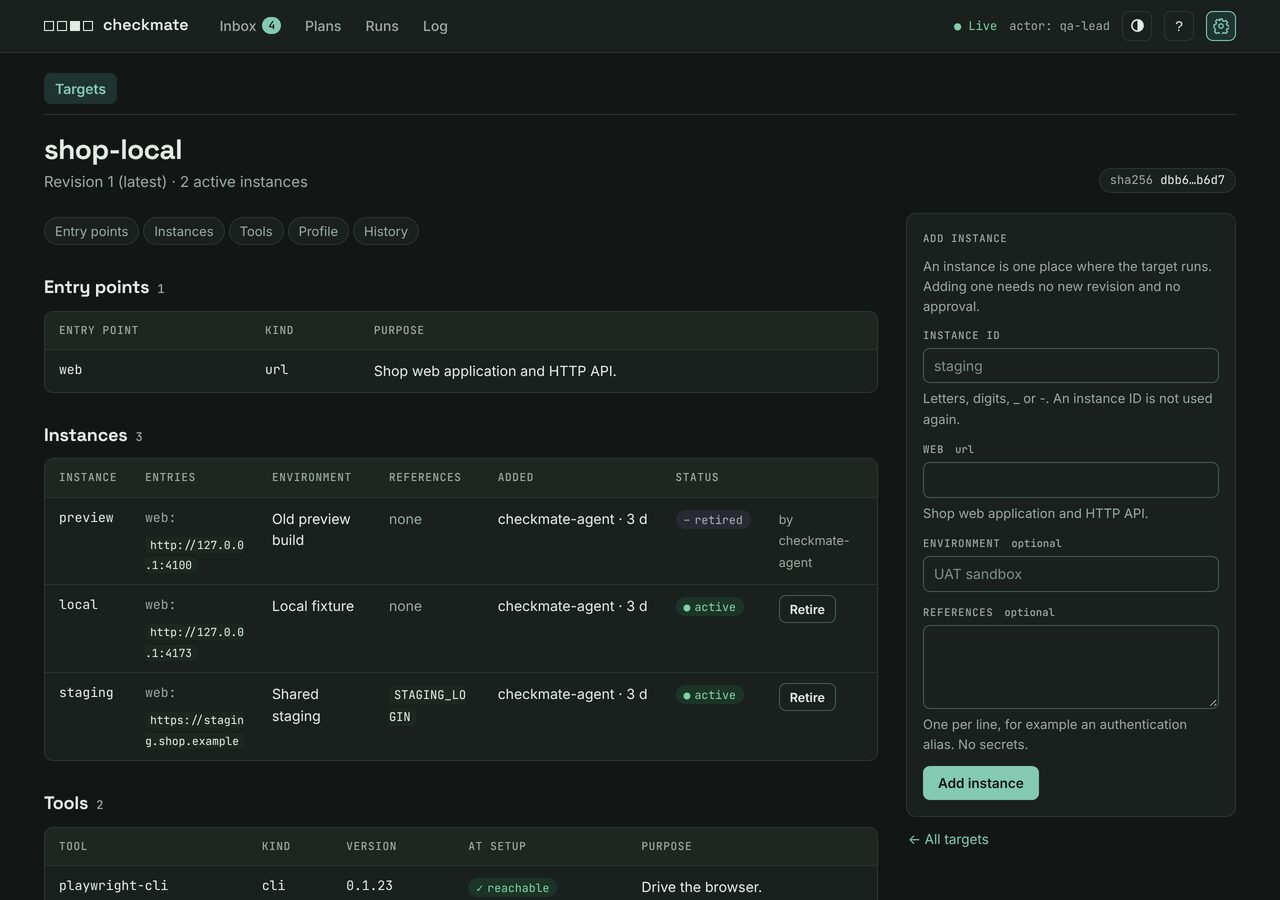
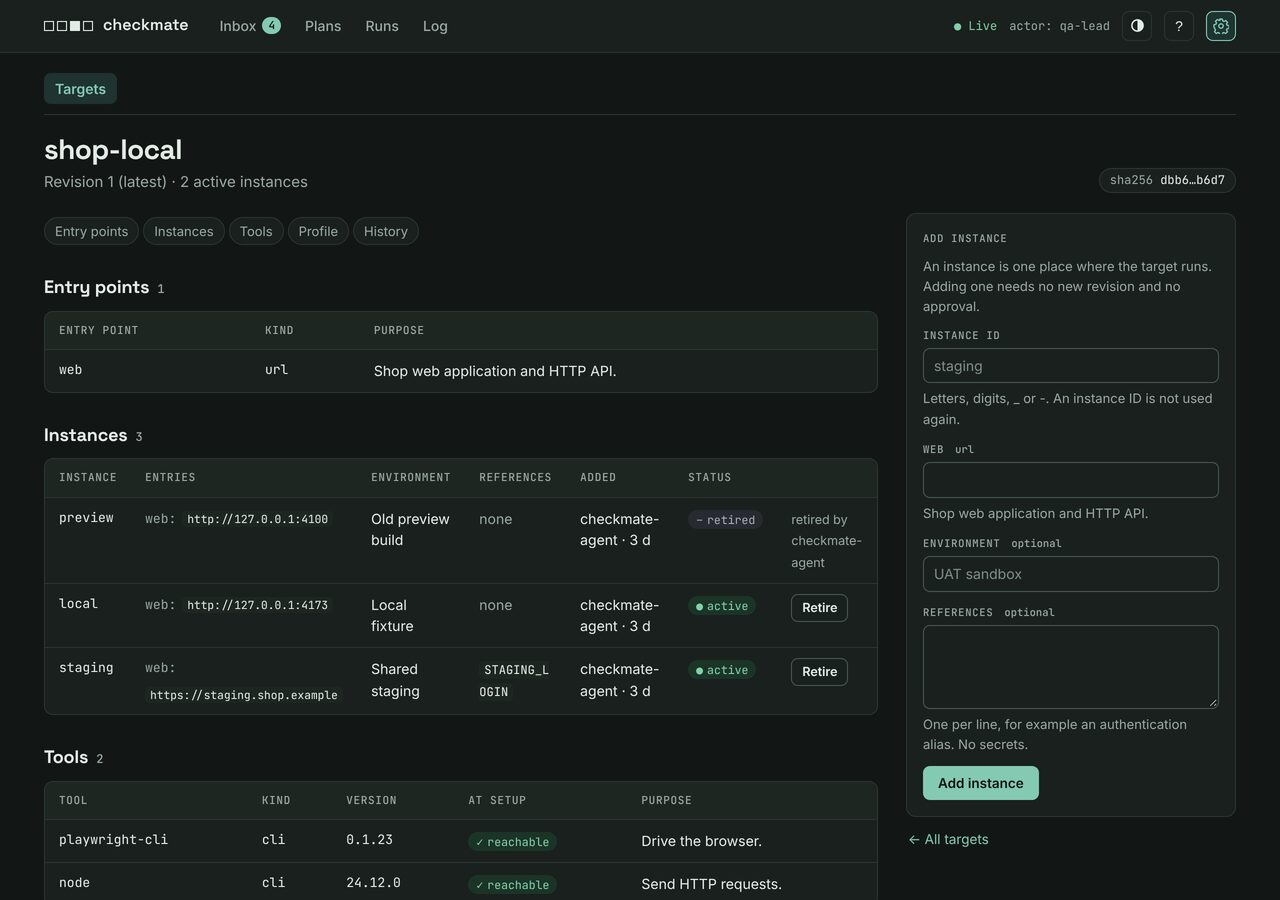
Fix review findings for target instances
Deterministic live setup, safe command entries in the execute skill,
a consistent factory example, trimmed --entry values, clearer retired
and unknown instance errors, accessible Retire controls, unbroken
command values in the UI, a matrix next hint, and tests for unknown
three-word commands and escaped instance values.

Claude-Session: https://claude.ai/code/session_01HgM7N6e8wyFWRWjtad7HpP

diff --git a/plugin/dist/checkmate.js b/plugin/dist/checkmate.js
@@ -6674,7 +6674,7 @@ function targetRequestCheck(input) {
   requireIdentifier(input.targetId, "target ID");
   requireCondition(
     Array.isArray(input.entryPoints) && input.entryPoints.length > 0,
-    "Missing entry points. Give one or more --entry-point <name>:<url|command|value>[:<purpose>]."
+    "Missing entry points. Give one or more --entry-point <name>:<url|command|value>:<purpose>."
   );
   const entryPoints = input.entryPoints.map(entryPointCheck);
   requireCondition(
@@ -6901,7 +6901,11 @@ function addInstance(store, actor, input) {
     );
     if (existing) {
       requireCondition(
-        existing.body === canonical(instance) && !retirement(store, input.targetId, instanceId),
+        !retirement(store, input.targetId, instanceId),
+        `Instance ${subject} is retired. Use a new instance ID.`
+      );
+      requireCondition(
+        existing.body === canonical(instance),
         `Instance ${subject} exists. An instance does not change. Use a new instance ID.`
       );
       return { reply: completed(subject, { ...instance, instanceId, recorded: false }), subjects: [] };
@@ -8829,7 +8833,7 @@ function planStatus(store, planId) {
         [
           openRuns.length === 1 ? `${started.runId} is started on build ${started.build} on instance ${started.instanceId}` : `${openRuns.length} runs are started`
         ],
-        `checkmate delegate execute ${started.runId}`
+        openRuns.length === 1 ? `checkmate delegate execute ${started.runId}` : "checkmate delegate execute <runId>, for each started run"
       );
     if (pendingDecisions2.length)
       return loop(
@@ -12075,7 +12079,14 @@ function entryList(instance) {
 		${Object.entries(instance.entries).map(
     ([name, value2]) => html2`<div>
 					<dt class="mono">${name}</dt>
-					<dd><code>${value2}</code></dd>
+					<dd>
+						<code
+							>${join4(
+      value2.split(" ").map((word) => html2`<span class="word">${word}</span>`),
+      " "
+    )}</code
+						>
+					</dd>
 				</div>`
   )}
 	</dl>`;
@@ -12088,10 +12099,10 @@ function actorInput(context, id2) {
 	</div>`;
 }
 function retireControl(context, targetId, instance, retire) {
-  if (instance.retired) return html2`<span class="muted small">by ${instance.retired.actor}</span>`;
+  if (instance.retired) return html2`<span class="muted small">retired by ${instance.retired.actor}</span>`;
   const failed = retire?.instanceId === instance.instanceId ? retire.error : null;
   return html2`<details class="retire" ${failed ? html2`open` : ""} data-open-key="retire:${instance.instanceId}">
-		<summary class="btn small">Retire</summary>
+		<summary class="btn small" aria-label="Retire ${instance.instanceId}">Retire</summary>
 		<form
 			method="post"
 			action="/settings/targets/${targetId}/instances/${instance.instanceId}/retire"
@@ -12128,7 +12139,7 @@ function instancesTable(context, targetId, instances, retire) {
 							<td>${entryList(instance)}</td>
 							<td>${instance.environment ?? none2()}</td>
 							<td>${words3(instance.references)}</td>
-							<td class="nowrap">${instance.addedBy} · ${time(instance.addedAt)}</td>
+							<td>${instance.addedBy} · ${time(instance.addedAt)}</td>
 							<td>${instance.retired ? pill("retired") : pill("active")}</td>
 							<td>${retireControl(context, targetId, instance, retire)}</td>
 						</tr>`
@@ -12234,6 +12245,7 @@ function targetPage(store, context, targetId, revision, form = null, retire = nu
 				</section>
 				<section aria-labelledby="instances" data-region="instances">
 					<h2 id="instances">Instances <span class="n">${instances.length}</span></h2>
+					${retire && !instances.some((instance) => instance.instanceId === retire.instanceId && !instance.retired) ? html2`<p class="form-error" role="alert">${retire.error}</p>` : ""}
 					${instancesTable(context, targetId, instances, retire)}
 				</section>
 				${shape}
@@ -12979,7 +12991,7 @@ function instanceInput(args, stdin) {
     requireCondition(at > 0, `Invalid --entry: ${entry}. Use <entryPoint>=<value>.`);
     const name = entry.slice(0, at);
     requireCondition(!(name in values), `Entry point ${name} is given twice`);
-    values[name] = entry.slice(at + 1);
+    values[name] = entry.slice(at + 1).trim();
   }
   return {
     entries: values,
@@ -13861,7 +13873,7 @@ function commandName(argv) {
   }
   for (let count = words4.length; count > 0; count--)
     if (commands[words4.slice(0, count).join(" ")]) return words4.slice(0, count).join(" ");
-  throw new Error(`Unknown command: ${words4.slice(0, 2).join(" ") || "(none)"}. Run checkmate --help.`);
+  throw new Error(`Unknown command: ${words4.join(" ") || "(none)"}. Run checkmate --help.`);
 }
 function parse(name, tokens) {
   const command = commands[name];

diff --git a/test/ui.test.ts b/test/ui.test.ts
@@ -15,6 +15,7 @@ import {
 	closeStore,
 	openPlan,
 	openStore,
+	addInstance,
 	instanceList,
 	operationLog,
 	planCandidate,
@@ -868,4 +869,46 @@ test('the run page shows XML and CSV evidence inline as text', async (t) => {
 	const page = (await call(ui, '/runs/run-8')).body
 	assert.match(page, /<pre tabindex="0">&lt;feed&gt;&lt;item&gt;Lamp&lt;\/item&gt;&lt;\/feed&gt;<\/pre>/)
 	assert.match(page, /<pre tabindex="0">sku,total\nLAMP-01,400\n<\/pre>/)
+})
+
+test('instance values are escaped in the table and the form; a javascript: URL entry is text only', async (t) => {
+	const { ui, workspace } = await start(t)
+	const hostile = 'javascript:alert("x")//<script>alert(1)</script>'
+	read(workspace, (store) =>
+		addInstance(store, agent, {
+			targetId: 'shop-local',
+			instanceId: 'hostile',
+			instance: { entries: { web: hostile }, environment: '<script>alert(2)</script>"' },
+		})
+	)
+	const page = (await call(ui, '/settings/targets/shop-local')).body
+	assert(!page.includes('<script>alert'), 'raw script in the page')
+	assert.match(
+		page,
+		/<span class="word">javascript:alert\(&quot;x&quot;\)\/\/&lt;script&gt;alert\(1\)&lt;\/script&gt;<\/span>/
+	)
+	assert.match(page, /&lt;script&gt;alert\(2\)&lt;\/script&gt;&quot;/)
+	assert.doesNotMatch(page, /href="javascript:/i)
+	const csrf = field(page, 'csrf')
+	const refused = await call(ui, '/settings/targets/shop-local/instances', {
+		form: { csrf, instanceId: 'x"><script>', 'entry.web': '"><script>alert(3)</script>' },
+		headers: actorCookie,
+	})
+	assert.equal(refused.status, 422)
+	assert(!refused.body.includes('<script>alert(3)'), 'raw script in the form')
+	assert.match(refused.body, /value="&quot;&gt;&lt;script&gt;alert\(3\)&lt;\/script&gt;"/)
+	assert.match(refused.body, /value="x&quot;&gt;&lt;script&gt;"/)
+})
+
+test('a retire of an unknown instance shows a visible error; each Retire control names its instance', async (t) => {
+	const { ui } = await start(t)
+	const page = (await call(ui, '/settings/targets/shop-local')).body
+	assert.match(page, /aria-label="Retire staging"/)
+	assert.match(page, /retired by checkmate-agent/)
+	const unknown = await call(ui, '/settings/targets/shop-local/instances/nope/retire', {
+		form: { csrf: field(page, 'csrf'), confirmed: '1' },
+		headers: actorCookie,
+	})
+	assert.equal(unknown.status, 422)
+	assert.match(unknown.body, /<p class="form-error" role="alert">Unknown instance: shop-local\/nope\./)
 })

diff --git a/plugin/src/ui/settings.ts b/plugin/src/ui/settings.ts
@@ -212,7 +212,14 @@ function entryList(instance: InstanceRecord) {
 			([name, value]) =>
 				html`<div>
 					<dt class="mono">${name}</dt>
-					<dd><code>${value}</code></dd>
+					<dd>
+						<code
+							>${join(
+								value.split(' ').map((word) => html`<span class="word">${word}</span>`),
+								' '
+							)}</code
+						>
+					</dd>
 				</div>`
 		)}
 	</dl>`
@@ -227,10 +234,10 @@ function actorInput(context: Context, id: string) {
 }
 
 function retireControl(context: Context, targetId: string, instance: InstanceRecord, retire: RetireState) {
-	if (instance.retired) return html`<span class="muted small">by ${instance.retired.actor}</span>`
+	if (instance.retired) return html`<span class="muted small">retired by ${instance.retired.actor}</span>`
 	const failed = retire?.instanceId === instance.instanceId ? retire.error : null
 	return html`<details class="retire" ${failed ? html`open` : ''} data-open-key="retire:${instance.instanceId}">
-		<summary class="btn small">Retire</summary>
+		<summary class="btn small" aria-label="Retire ${instance.instanceId}">Retire</summary>
 		<form
 			method="post"
 			action="/settings/targets/${targetId}/instances/${instance.instanceId}/retire"
@@ -269,7 +276,7 @@ function instancesTable(context: Context, targetId: string, instances: InstanceR
 							<td>${entryList(instance)}</td>
 							<td>${instance.environment ?? none()}</td>
 							<td>${words(instance.references)}</td>
-							<td class="nowrap">${instance.addedBy} · ${time(instance.addedAt)}</td>
+							<td>${instance.addedBy} · ${time(instance.addedAt)}</td>
 							<td>${instance.retired ? pill('retired') : pill('active')}</td>
 							<td>${retireControl(context, targetId, instance, retire)}</td>
 						</tr>`
@@ -389,6 +396,12 @@ export function targetPage(
 				</section>
 				<section aria-labelledby="instances" data-region="instances">
 					<h2 id="instances">Instances <span class="n">${instances.length}</span></h2>
+					${
+						retire &&
+						!instances.some((instance) => instance.instanceId === retire.instanceId && !instance.retired)
+							? html`<p class="form-error" role="alert">${retire.error}</p>`
+							: ''
+					}
 					${instancesTable(context, targetId, instances, retire)}
 				</section>
 				${shape}

diff --git a/test/targets.test.ts b/test/targets.test.ts
@@ -274,7 +274,7 @@ test('instances are added and retired without a new revision; retired IDs are no
 	)
 	assert.throws(
 		() => addInstance(opened, actor, { targetId: 'crm', instanceId: 'uat', instance: sandbox }),
-		/Instance crm\/uat exists/
+		/Instance crm\/uat is retired\. Use a new instance ID/
 	)
 	addInstance(opened, actor, { targetId: 'crm', instanceId: 'uat-2', instance: sandbox })
 	const list = instanceList(opened, 'crm')
@@ -357,8 +357,18 @@ test('target list, show, and instance commands print entry points, authenticatio
 		'piped\tretired\t-\tweb=http://127.0.0.1:5000',
 	])
 	assert.match(cli(workspace, ['target', 'show', 'checkout-local', '--instance', 'nope']).output, /Unknown instance/)
+	const trimmed = json(workspace, [
+		'target',
+		'instance',
+		'add',
+		'checkout-local',
+		'trimmed',
+		'--entry',
+		'web=  http://127.0.0.1:6000 ',
+	])
+	assert.deepEqual(trimmed.body.entries, { web: 'http://127.0.0.1:6000' })
 	assert.match(
 		cli(workspace, ['target', 'instance', 'drop', 'checkout-local']).output,
-		/Unknown command: target instance/
+		/Unknown command: target instance drop\. Run/
 	)
 })

diff --git a/test/live.ts b/test/live.ts
@@ -101,16 +101,25 @@ try {
 		'--operations',
 		'read_catalog,create_fixture_order,apply_fixture_discount',
 	])
+	checkmate(workspace, [
+		'target',
+		'instance',
+		'add',
+		'checkout-local',
+		'local',
+		'--entry',
+		`web=${app.baseUrl}`,
+		'--environment',
+		'local fixture',
+	])
+	const instancesBefore = checkmate(workspace, ['target', 'instance', 'list', 'checkout-local']).instances
 	assert.equal((await stage('setup', 'setup', 'checkout-local')).status, 'completed')
 	const target = checkmate(workspace, ['target', 'show', 'checkout-local'])
 	assert.equal(target.profile.readyForLiveExecution, true)
 	assert.deepEqual(
-		target.instances.map((instance: { instanceId: string; entries: unknown }) => [
-			instance.instanceId,
-			instance.entries,
-		]),
-		[['local', { web: app.baseUrl }]],
-		'Setup did not add the first instance'
+		checkmate(workspace, ['target', 'instance', 'list', 'checkout-local']).instances,
+		instancesBefore,
+		'Setup changed the instances of the target'
 	)
 
 	checkmate(workspace, ['plan', 'open', 'checkout', '--target', `checkout-local@${target.revision}`], request)

diff --git a/plugin/src/targets.ts b/plugin/src/targets.ts
@@ -75,7 +75,7 @@ function targetRequestCheck(input: Omit<TargetRequest, 'tools'> & { tools?: Requ
 	requireIdentifier(input.targetId, 'target ID')
 	requireCondition(
 		Array.isArray(input.entryPoints) && input.entryPoints.length > 0,
-		'Missing entry points. Give one or more --entry-point <name>:<url|command|value>[:<purpose>].'
+		'Missing entry points. Give one or more --entry-point <name>:<url|command|value>:<purpose>.'
 	)
 	const entryPoints = input.entryPoints.map(entryPointCheck)
 	requireCondition(
@@ -328,7 +328,11 @@ export function addInstance(
 		)
 		if (existing) {
 			requireCondition(
-				existing.body === canonical(instance) && !retirement(store, input.targetId, instanceId),
+				!retirement(store, input.targetId, instanceId),
+				`Instance ${subject} is retired. Use a new instance ID.`
+			)
+			requireCondition(
+				existing.body === canonical(instance),
 				`Instance ${subject} exists. An instance does not change. Use a new instance ID.`
 			)
 			return { reply: completed(subject, { ...instance, instanceId, recorded: false }), subjects: [] }

diff --git a/plugin/src/cli.ts b/plugin/src/cli.ts
@@ -145,7 +145,7 @@ function instanceInput(args: Args, stdin: () => unknown) {
 		requireCondition(at > 0, `Invalid --entry: ${entry}. Use <entryPoint>=<value>.`)
 		const name = entry.slice(0, at)
 		requireCondition(!(name in values), `Entry point ${name} is given twice`)
-		values[name] = entry.slice(at + 1)
+		values[name] = entry.slice(at + 1).trim()
 	}
 	return {
 		entries: values,
@@ -1106,7 +1106,7 @@ function commandName(argv: string[]) {
 	}
 	for (let count = words.length; count > 0; count--)
 		if (commands[words.slice(0, count).join(' ')]) return words.slice(0, count).join(' ')
-	throw new Error(`Unknown command: ${words.slice(0, 2).join(' ') || '(none)'}. Run checkmate --help.`)
+	throw new Error(`Unknown command: ${words.join(' ') || '(none)'}. Run checkmate --help.`)
 }
 
 function parse(name: string, tokens: string[]) {

diff --git a/test/cli.test.ts b/test/cli.test.ts
@@ -199,6 +199,8 @@ test('--actor names the writer; parse errors are invalid requests', (t) => {
 	assert.equal(json(workspace, ['plan', 'show', 'checkout']).body.pendingDecisions[0].actor, 'reviewer')
 	const cases: Array<[string[], string]> = [
 		[['deploy'], 'Unknown command: deploy. Run checkmate --help.'],
+		[['target', 'instance', 'drop', 'x', 'y'], 'Unknown command: target instance drop. Run checkmate --help.'],
+		[['target', 'instance', '--json'], 'Unknown command: target instance. Run checkmate --help.'],
 		[
 			['plan', 'show', 'checkout', '--verbose'],
 			'Unknown option --verbose for plan show. Usage: checkmate plan show <reference> [--tests <a,b>] [--fields <a,b>] [--gaps <value>]',

diff --git a/test/live-support.ts b/test/live-support.ts
@@ -41,7 +41,7 @@ export function liveWorkspace(baseUrl: string) {
 			'# Fixture workspace',
 			'',
 			`The checkout fixture runs at ${baseUrl}. The factory owns the server. Do not change its code.`,
-			'The first instance of target `checkout-local` is `local`, with this URL as its `web` entry.',
+			'Target `checkout-local` has the active instance `local`, with this URL as its `web` entry.',
 			'The browser config is `.playwright/cli.config.json`. Use `open --idle-timeout=30000`.',
 			'The page `/` has one 400 PLN item. Its checkout button creates an order and shows the total.',
 			'The page has no promotion or loyalty control. Do not test the promotion or loyalty in the browser.',

diff --git a/test/views.test.ts b/test/views.test.ts
@@ -377,6 +377,7 @@ test('plan status lists every open run of a matrix with its instance', (t) => {
 		instances.map((instanceId, i) => [`run-${i + 1}`, instanceId])
 	)
 	assert.deepEqual(status.why, ['5 runs are started'])
+	assert.equal(status.next, 'checkmate delegate execute <runId>, for each started run')
 	const printed = cli(opened.workspace, ['status', 'checkout']).lines
 	assert(printed.includes('run-3\tstarted\tbuild=build-1\tinstance=staging'), printed.join('\n'))
 	assert.deepEqual(

diff --git a/plugin/src/views.ts b/plugin/src/views.ts
@@ -346,7 +346,9 @@ export function planStatus(store: Store, planId: string) {
 						? `${started.runId} is started on build ${started.build} on instance ${started.instanceId}`
 						: `${openRuns.length} runs are started`,
 				],
-				`checkmate delegate execute ${started.runId}`
+				openRuns.length === 1
+					? `checkmate delegate execute ${started.runId}`
+					: 'checkmate delegate execute <runId>, for each started run'
 			)
 		if (pendingDecisions.length)
 			return loop(

diff --git a/test/ui.browser.test.ts b/test/ui.browser.test.ts
@@ -348,7 +348,7 @@ test('Settings adds and retires an instance from the keyboard and updates live',
 	await row.locator('summary', { hasText: 'Retire' }).focus()
 	await page.keyboard.press('Enter')
 	await row.getByRole('button', { name: 'Confirm retire' }).click()
-	await page.locator('#instance-uat').getByText('retired').waitFor()
+	await page.locator('#instance-uat').getByText('retired by qa-lead').waitFor()
 	await checkmate(workspace, [
 		'target',
 		'instance',
